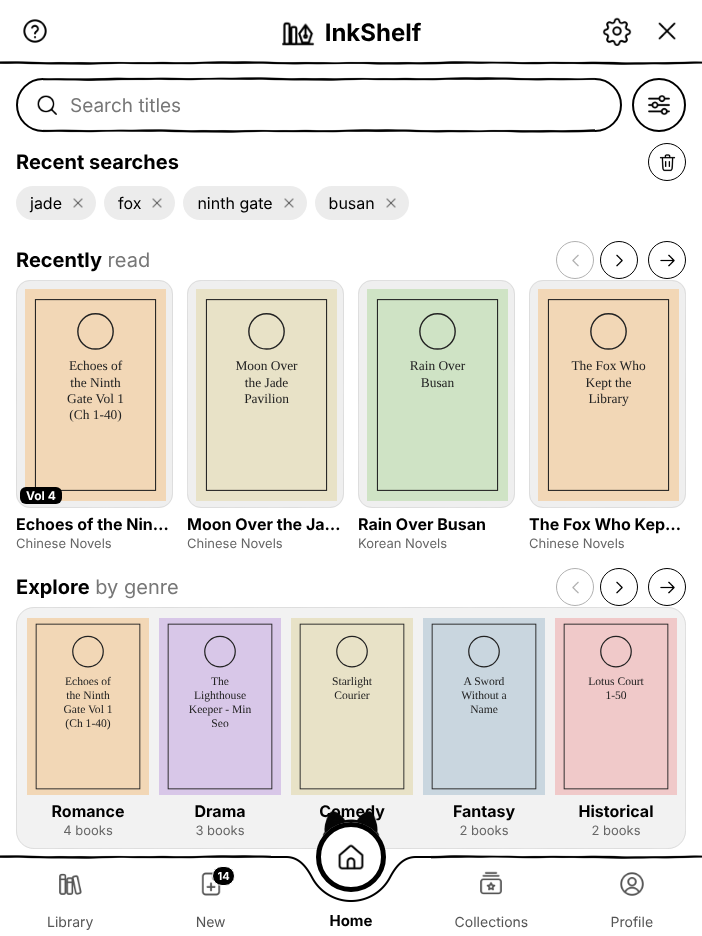
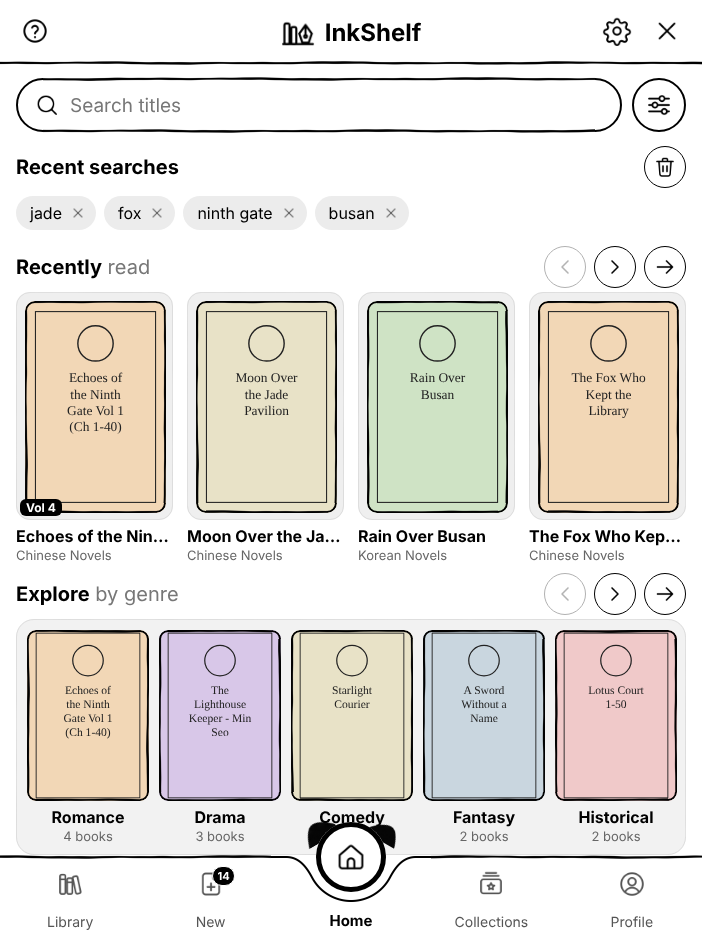
Ears on the button's sides, paw prints on notes, hand-drawn covers and post-its, even spacing for small round buttons
Claude-Session: https://claude.ai/code/session_01X56ddDHNWUKJn2BBuoFg9X

diff --git a/App.tsx b/App.tsx
@@ -41,6 +41,8 @@ const CAT_IMG = {
 // height / width of each picture
 const CAT_RATIO: {[k in keyof typeof CAT_IMG]: number} = {peek: 0.5349, ears: 0.4848, paw: 0.8213, loaf: 0.7054, sitting: 1.0231, sleepy: 0.8558, stretch: 0.9286};
 let CAT = false; // set from Settings on every render
+const CAT_EAR_L = require('./assets/cat/ear-left.png');
+const CAT_EAR_R = require('./assets/cat/ear-right.png');
 
 // ---------- the hand-drawn look (Settings › Look): every ink border becomes a slightly wobbly pen line ----------
 // The line pictures (tools/sketch/make.py) are cropped, never stretched, so the wobble looks the same on short and long edges.
@@ -183,6 +185,27 @@ const TextInput = React.forwardRef<RNTextInput, React.ComponentProps<typeof RNTe
 const CatImg = ({name, w, style}: {name: keyof typeof CAT_IMG; w: number; h?: number; style?: any}) => (
   <Image source={CAT_IMG[name]} style={[{width: w, height: Math.round(w * CAT_RATIO[name]), pointerEvents: 'none'}, style]} resizeMode="contain" />
 );
+/** the bottom bar's round button (70 wide, its top 36 above the bar) wears an ear on each shoulder, tilted with the circle */
+const EAR = {w: px(36), h: px(20)}; // ear-left/right.png are about 84 x 44
+const Ears = () => {
+  const a = 52 * Math.PI / 180, d = px(41); // the ear's base tucks under the button's rim // angle from the top, distance from the circle's middle
+  const cy = -px(36) + px(35);
+  return (
+    <>
+      {[-1, 1].map(sd => (
+        <Image key={sd} source={sd < 0 ? CAT_EAR_L : CAT_EAR_R} resizeMode="contain"
+          style={{position: 'absolute', width: EAR.w, height: EAR.h, top: cy - d * Math.cos(a) - EAR.h / 2, left: '50%', marginLeft: sd * d * Math.sin(a) - EAR.w / 2, transform: [{rotate: `${sd * 30}deg`}], pointerEvents: 'none'} as any} />
+      ))}
+    </>
+  );
+};
+/** two little paw prints walking into a sticky note's bottom-left corner */
+const PawTrail = () => (
+  <RNView pointerEvents="none" style={{position: 'absolute', left: px(8), bottom: px(6), width: px(44), height: px(34)}}>
+    <CatImg name="paw" w={px(16)} style={{position: 'absolute', left: 0, top: 0, transform: [{rotate: '-28deg'}]}} />
+    <CatImg name="paw" w={px(16)} style={{position: 'absolute', left: px(22), top: px(14), transform: [{rotate: '-18deg'}]}} />
+  </RNView>
+);
 // picture sizes (the Supernote screen is 300 pixels per inch: 600 px is about 51 mm)
 const SIZE_COVER = '2:3 tall, e.g. 600 × 900 px (about 51 × 76 mm on the screen)';
 const SIZE_COLL = '4:3 wide, e.g. 800 × 600 px (about 68 × 51 mm on the screen)';
@@ -286,13 +309,23 @@ function Cover({uri, w, h, title, isNew, badge}: {uri?: string | null; w: number
   const [bad, setBad] = useState(false);
   const img =
     !uri || bad ? (
-      <View style={[st.noCover, {width: w, height: h}]}>
+      <View style={[st.noCover, SKETCH && {borderWidth: 0}, {width: w, height: h}]}>
         {title ? <Text style={[st.noCoverText, {fontSize: Math.max(px(9), Math.round(w / 9))}]} numberOfLines={5}>{title}</Text> : null}
       </View>
     ) : (
       <Image source={{uri: /^[a-z]+:/i.test(uri) ? uri : 'file://' + uri}} style={{width: w, height: h}} resizeMode="cover" onError={() => setBad(true)} />
     );
   const tag = badge || (isNew ? 'NEW' : '');
+  if (SKETCH) {
+    // soft corners and a pen line around the picture
+    const r = Math.max(px(5), Math.round(Math.min(w, h) * 0.07));
+    return (
+      <View style={{width: w, height: h, borderRadius: r, overflow: 'hidden', borderWidth: w < px(70) ? 1.5 : 2, borderColor: BLACK}}>
+        <RNView style={{position: 'absolute', top: 0, left: 0, width: w, height: h}}>{img}</RNView>
+        {tag ? <View style={st.newBadge}><Text style={[st.newBadgeText, badge ? {fontSize: Math.max(px(9), Math.min(px(11), Math.round(w / 11))), letterSpacing: 0} : null]}>{tag}</Text></View> : null}
+      </View>
+    );
+  }
   if (!tag) return img;
   return (
     <View style={{width: w, height: h}}>
@@ -303,7 +336,7 @@ function Cover({uri, w, h, title, isNew, badge}: {uri?: string | null; w: number
 }
 
 function ViewIcon({kind, on, onPress}: {kind: 'list' | 'grid'; on: boolean; onPress: () => void}) {
-  return <IconBtn name={kind} label={kind === 'list' ? 'List view' : 'Grid view'} dark={on} onPress={onPress} size={px(44)} style={{marginLeft: px(8), borderRadius: px(10)}} />;
+  return <IconBtn name={kind} label={kind === 'list' ? 'List view' : 'Grid view'} dark={on} onPress={onPress} size={px(42)} style={{marginLeft: px(8), borderRadius: px(10)}} />;
 }
 
 function FilterRow({label, count, state, onPress}: {label: string; count: number; state: 0 | 1 | -1; onPress: () => void}) {
@@ -2516,10 +2549,10 @@ function InkShelfApp(): React.JSX.Element {
         </Pressable>
         {active && !showFilters ? <Pill small label="Clear  ✕" onPress={clearAll} /> : null}
         <View style={{flexDirection: 'row'}}>
-          <IconBtn name="plus" label="Add a book" onPress={() => setPaperOpen(true)} size={px(44)} style={{marginRight: px(8), borderRadius: px(10)}} />
+          <IconBtn name="plus" label="Add a book" onPress={() => setPaperOpen(true)} size={px(42)} style={{marginRight: px(8), borderRadius: px(10)}} />
           <ViewIcon kind="list" on={!grid && !settings.libFolders} onPress={() => { changeSettings({libraryGrid: false, libFolders: false}); setPage(Math.floor(((pg - 1) * per) / LIST_PER_PAGE) + 1); }} />
           <ViewIcon kind="grid" on={grid && !settings.libFolders} onPress={() => { changeSettings({libraryGrid: true, libFolders: false}); setPage(Math.floor(((pg - 1) * per) / GRID_PER_PAGE) + 1); }} />
-          <IconBtn name="folder" label="Folder view" dark={settings.libFolders} onPress={() => changeSettings({libFolders: !settings.libFolders})} size={px(44)} style={{marginLeft: px(8), borderRadius: px(10)}} />
+          <IconBtn name="folder" label="Folder view" dark={settings.libFolders} onPress={() => changeSettings({libFolders: !settings.libFolders})} size={px(42)} style={{marginLeft: px(8), borderRadius: px(10)}} />
         </View>
       </View>
       {settings.libFolders && lib ? (
@@ -3130,7 +3163,7 @@ function PostIt({notes, onPress, style}: {notes: Note[]; onPress: () => void; st
   const sz = px(52);
   return (
     <Pressable onPress={onPress} hitSlop={px(6)} accessibilityLabel={n ? `${n} notes` : 'Add a note'} style={style}>
-      <View style={[st.postit, {width: sz, height: sz, backgroundColor: n ? noteBg(notes[0].color) : '#fbf0a0'}]}>
+      <View style={[st.postit, SKETCH && {borderRadius: px(8), overflow: 'hidden', borderWidth: 1.5, borderColor: BLACK}, {width: sz, height: sz, backgroundColor: n ? noteBg(notes[0].color) : '#fbf0a0'}]}>
         <View style={st.postitFold} />
         {n ? (
           <>
@@ -3173,7 +3206,7 @@ function NotesBoard({title, notes, onChange, onClose}: {title: string; notes: No
   const rows = Math.max(2, Math.ceil(slots / cols));
   const nw = Math.floor(boardW / cols) - px(28);
   const nh = Math.floor(boardH / rows) - px(26);
-  const lines = Math.max(2, Math.floor((nh - px(60)) / px(25)));
+  const lines = Math.max(2, Math.floor((nh - px(60) - (CAT ? px(16) : 0)) / px(25)));
   return (
     <View style={[StyleSheet.absoluteFill, {backgroundColor: '#ffffff'}]}>
       <View style={st.header}>
@@ -3209,9 +3242,9 @@ function NotesBoard({title, notes, onChange, onClose}: {title: string; notes: No
                 <View key={c} style={st.boardSlot}>
                   <Pressable
                     onPress={() => (picking ? setPicked(sel ? picked.filter(x => x !== n.id) : [...picked, n.id]) : setEditing(n))}
-                    style={[st.sticky, {width: nw, height: nh, backgroundColor: noteBg(n.color), transform: [{rotate: `${tilt(n.id, i)}deg`}]}, sel && {borderWidth: 3.5, borderColor: BLACK}]}
+                    style={[st.sticky, SKETCH && {borderRadius: px(12)}, {width: nw, height: nh, backgroundColor: noteBg(n.color), transform: [{rotate: `${tilt(n.id, i)}deg`}]}, sel && {borderWidth: 3.5, borderColor: BLACK}]}
                     accessibilityLabel={picking ? `${sel ? 'Unselect' : 'Select'} note ${i + 1}` : `Note ${i + 1}: ${n.title || n.text.slice(0, 30)}`}>
-                    {CAT ? <CatImg name="paw" w={px(22)} h={px(22)} style={{position: 'absolute', top: px(2), left: '50%', marginLeft: -px(11)}} /> : <View style={st.pin} />}
+                    <View style={st.pin} />{CAT ? <PawTrail /> : null}
                     {n.title ? <Text style={st.stickyTitle} numberOfLines={1}>{n.title}</Text> : null}
                     {n.rating ? <View style={{marginBottom: px(4)}}><Stars value={n.rating} size={px(20)} /></View> : null}
                     <Text style={st.stickyText} numberOfLines={(n.title ? lines - 1 : lines) - (n.rating ? 1 : 0)}>{n.text}</Text>
@@ -3503,7 +3536,7 @@ function QuotesPage({index, cover, onOpen}: {index: Found[]; cover: (f: Found) =
   const boardH = H - px(64) - px(84) - px(64) - TASK_H - px(20);
   const nw = Math.floor(boardW / cols) - px(30);
   const nh = Math.floor(boardH / rows) - px(26);
-  const lines = Math.max(2, Math.floor((nh - px(96)) / px(25)));
+  const lines = Math.max(2, Math.floor((nh - px(96) - (CAT ? px(16) : 0)) / px(25)));
   return (
     <>
       <View style={[st.searchRow, {flexDirection: 'row', alignItems: 'center'}]}>
@@ -3526,7 +3559,7 @@ function QuotesPage({index, cover, onOpen}: {index: Found[]; cover: (f: Found) =
               {list.slice(p * per + r * cols, p * per + r * cols + cols).map((x, c) => (
                 <View key={x.f.lib.path + x.f.book.key + x.n.id} style={st.boardSlot}>
                   <Pressable onPress={() => onOpen(x.f)} style={[st.sticky, {width: nw, height: nh, backgroundColor: noteBg(x.n.color), transform: [{rotate: `${tilt(x.n.id, r * cols + c)}deg`}]}]} accessibilityLabel={`Note on ${x.title}: ${x.n.title || x.n.text.slice(0, 40)}`}>
-                    {CAT ? <CatImg name="paw" w={px(22)} h={px(22)} style={{position: 'absolute', top: px(2), left: '50%', marginLeft: -px(11)}} /> : <View style={st.pin} />}
+                    <View style={st.pin} />{CAT ? <PawTrail /> : null}
                     <View style={{flexDirection: 'row', alignItems: 'center', marginBottom: px(6)}}>
                       <Cover uri={cover(x.f)} w={px(30)} h={px(45)} title={x.title} />
                       <View style={{flex: 1, marginLeft: px(8)}}>
@@ -3659,7 +3692,7 @@ function Taskbar({tab, onTab, newCount}: {tab: Tab; onTab: (t: Tab) => void; new
                 {/* the open tab sits in a dip cut into the bar, like a call-to-action button */}
                 {/* one smooth curve: flat bar, soft shoulder, round dip around the button, soft shoulder */}
                 <Image source={DIP_IMG} style={st.dip} resizeMode="stretch" />
-                {CAT ? <CatImg name="ears" w={px(58)} style={{position: 'absolute', top: -px(36) - px(12), alignSelf: 'center'}} /> : null}
+                {CAT ? <Ears /> : null}
                 <View style={st.taskCta}>
                   <Icon name={icon} size={px(32)} />
                   {badge}
@@ -3812,9 +3845,9 @@ function SettingsSheet({settings, change, onClose, onLibraries, onClearSearches,
         {settings.profile.goal ? (
           <View style={{flexDirection: 'row', alignItems: 'center', marginTop: px(4)}}>
             <Text style={[st.small, {color: BLACK, marginRight: px(10)}]}>{`Goal: books to finish in ${new Date().getFullYear()}`}</Text>
-            <IconBtn name="back" label="Fewer" disabled={settings.goal <= 1} onPress={() => change({goal: Math.max(1, (settings.goal || 12) - 1)})} size={px(40)} />
+            <IconBtn name="back" label="Fewer" disabled={settings.goal <= 1} onPress={() => change({goal: Math.max(1, (settings.goal || 12) - 1)})} size={px(42)} />
             <Text style={[st.rowTitle, {width: px(54), textAlign: 'center'}]}>{settings.goal || 12}</Text>
-            <IconBtn name="forward" label="More" onPress={() => change({goal: (settings.goal || 12) + 1})} size={px(40)} />
+            <IconBtn name="forward" label="More" onPress={() => change({goal: (settings.goal || 12) + 1})} size={px(42)} />
           </View>
         ) : null}
         <Text style={[st.section, {marginTop: px(12)}]}>On book pages</Text>
@@ -4144,7 +4177,7 @@ function CollectionEditor({start, values, count, onSave, onCancel, onDelete, onP
         <Text style={[st.ruleText, !r.value && {color: '#888888'}]} numberOfLines={1}>{r.value || 'choose…'}</Text>
         <Icon name={open === 'value' ? 'up' : 'down'} size={px(18)} />
       </Pressable>
-      <IconBtn name="close" label="Remove rule" onPress={() => { setPick(null); setC({...c, rules: c.rules.filter((_, j) => j !== i)}); }} size={px(40)} style={{marginLeft: px(6)}} />
+      <IconBtn name="close" label="Remove rule" onPress={() => { setPick(null); setC({...c, rules: c.rules.filter((_, j) => j !== i)}); }} size={px(42)} style={{marginLeft: px(6)}} />
     </View>
   );
   return (
@@ -4301,7 +4334,7 @@ function HelpPage({q, setQ, onOpen}: {q: string; setQ: (q: string) => void; onOp
         <View style={st.helpSearch}>
           <Icon name="search" size={px(26)} />
           <TextInput style={st.helpInput} value={q} onChangeText={t => { setQ(t); setPg(0); }} placeholder="Search the guides, e.g. cover, backup, series" />
-          {q ? <IconBtn bare name="close" label="Clear search" onPress={() => setQ('')} size={px(40)} /> : null}
+          {q ? <IconBtn bare name="close" label="Clear search" onPress={() => setQ('')} size={px(42)} /> : null}
         </View>
       </View>
       <View style={{flex: 1, paddingHorizontal: px(16)}}>
@@ -4851,7 +4884,7 @@ function Collection({items, grid, top, paging, empty}: {items: CItem[]; grid: bo
           </View>
         ) : null}
         {x.action ? (
-          <IconBtn name={x.action.icon} label={x.action.label} dark={x.action.dark} onPress={x.action.onPress} size={px(40)} style={{position: 'absolute', right: px(4), bottom: px(4)}} />
+          <IconBtn name={x.action.icon} label={x.action.label} dark={x.action.dark} onPress={x.action.onPress} size={px(42)} style={{position: 'absolute', right: px(4), bottom: px(4)}} />
         ) : null}
       </View>
       <Text style={[st.cardTitle, {alignSelf: 'stretch'}]} numberOfLines={1}>{x.title}</Text>
@@ -4961,7 +4994,7 @@ function NewList({items, libs, ready, paging, grid, setGrid, cover, wantCovers, 
     <>
       {wait}
       <Chips options={opts} value={which} onChange={setWhich} />
-      <Toolbar text={`${shown.length} book${shown.length === 1 ? '' : 's'}  ·  newest first`} grid={grid} setGrid={setGrid} extra={justAdded ? <IconBtn name="check" label="Mark all as seen" onPress={onAllSeen} size={px(44)} style={{borderRadius: px(10)}} /> : null} />
+      <Toolbar text={`${shown.length} book${shown.length === 1 ? '' : 's'}  ·  newest first`} grid={grid} setGrid={setGrid} extra={justAdded ? <IconBtn name="check" label="Mark all as seen" onPress={onAllSeen} size={px(42)} style={{borderRadius: px(10)}} /> : null} />
       <Collection
         key={which + grid}
         grid={grid}
@@ -5049,7 +5082,7 @@ function Home(props: {
             onSubmitEditing={() => onSearched(q)}
           />
           {q ? (
-            <IconBtn bare name="close" label="Clear search" onPress={() => setQ('')} size={px(40)} />
+            <IconBtn bare name="close" label="Clear search" onPress={() => setQ('')} size={px(42)} />
           ) : null}
         </View>
         <Pressable onPress={() => setScopeOpen(!scopeOpen)} style={[st.filterBtn, (scopeOpen || scope !== 'all') && st.btnDark]} accessibilityLabel="Search filters">
@@ -5110,11 +5143,11 @@ function Home(props: {
       <View style={{flexDirection: 'row', alignItems: 'center'}}>
         {!scroll && pages > 1 ? (
           <>
-            <IconBtn name="back" label="Previous" size={px(38)} disabled={page <= 0} onPress={() => setPage(page - 1)} style={{marginLeft: px(6)}} />
-            <IconBtn name="forward" label="Next" size={px(38)} disabled={page >= pages - 1} onPress={() => setPage(page + 1)} style={{marginLeft: px(6)}} />
+            <IconBtn name="back" label="Previous" size={px(42)} disabled={page <= 0} onPress={() => setPage(page - 1)} style={{marginLeft: px(8)}} />
+            <IconBtn name="forward" label="Next" size={px(42)} disabled={page >= pages - 1} onPress={() => setPage(page + 1)} style={{marginLeft: px(8)}} />
           </>
         ) : null}
-        <IconBtn name="arrow-right" label="View all" size={px(38)} onPress={() => onViewAll(what)} style={{marginLeft: px(10)}} />
+        <IconBtn name="arrow-right" label="View all" size={px(42)} onPress={() => onViewAll(what)} style={{marginLeft: px(8)}} />
       </View>
     </View>
   );
@@ -5151,7 +5184,7 @@ function Home(props: {
         <View style={{paddingHorizontal: px(16)}}>
           <View style={st.secHead}>
             <Text style={st.secTitle}>Recent searches</Text>
-            <IconBtn name="trash" label="Clear all searches" size={px(38)} onPress={() => onForgetSearch('')} />
+            <IconBtn name="trash" label="Clear all searches" size={px(42)} onPress={() => onForgetSearch('')} />
           </View>
           <View style={[st.pillWrap, {maxHeight: px(84), overflow: 'hidden'}]}>
             {searches.map(t => (
@@ -5170,7 +5203,7 @@ function Home(props: {
 
       {libs.length ? (
         <>
-          <View style={{paddingHorizontal: px(16), marginTop: px(10)}}>{head('Recently', 'read', rpg, rPages, setRp, 'recent')}</View>
+          <View style={{paddingHorizontal: px(16), marginTop: px(2)}}>{head('Recently', 'read', rpg, rPages, setRp, 'recent')}</View>
           {recent.length ? (
             row(
               rShown.map((r, i) => (
@@ -5188,7 +5221,7 @@ function Home(props: {
             <Text style={[st.small, {paddingHorizontal: px(16)}]}>Books you open will show up here.</Text>
           )}
 
-          <View style={{paddingHorizontal: px(16), marginTop: px(16)}}>{head('Explore', 'by genre', gpg, gPages, setGp, 'genres')}</View>
+          <View style={{paddingHorizontal: px(16), marginTop: px(6)}}>{head('Explore', 'by genre', gpg, gPages, setGp, 'genres')}</View>
           {genres.length ? (
             <View style={[st.genrePanel, {marginHorizontal: px(16)}]}>
               {(scroll ? [<ScrollView key="s" horizontal showsHorizontalScrollIndicator={false}><View style={{flexDirection: 'row'}}>{gTiles()}</View></ScrollView>] : [<View key="r" style={{flexDirection: 'row'}}>{gTiles()}</View>])}
@@ -5203,7 +5236,7 @@ function Home(props: {
   function gTiles() {
     return gShown.map((g, i) => (
       <Pressable key={g.name} onPress={() => onGenre(g.name)} style={{width: gw, marginLeft: i ? px(10) : 0, alignItems: 'center'}}>
-        <Cover uri={g.f ? cover(g.f) : null} w={gw} h={Math.round(gw * 1.45)} title={g.name} />
+        <Cover uri={g.f ? cover(g.f) : null} w={gw} h={Math.round(gw * 1.4)} title={g.name} />
         <Text style={[st.cardTitle, {textAlign: 'center'}]} numberOfLines={1}>{g.name}</Text>
         <Text style={[st.cardSub, {textAlign: 'center'}]}>{`${g.count} book${g.count === 1 ? '' : 's'}`}</Text>
       </Pressable>
@@ -5806,7 +5839,7 @@ const st = StyleSheet.create({
   cardTitle: {fontSize: px(16), fontWeight: 'bold', color: BLACK, marginTop: px(6)},
   cardSub: {fontSize: px(13), color: '#666666', marginTop: px(1)},
   filterBtn: {width: px(54), height: px(54), borderRadius: px(27), borderWidth: 2, borderColor: BLACK, alignItems: 'center', justifyContent: 'center', marginLeft: px(10)},
-  secHead: {flexDirection: 'row', alignItems: 'center', justifyContent: 'space-between', height: px(40)},
+  secHead: {flexDirection: 'row', alignItems: 'center', justifyContent: 'space-between', height: px(50)}, // room above and below the round buttons
   secTitle: {fontSize: px(20), fontWeight: 'bold', color: BLACK},
   secSub: {fontWeight: 'normal', color: '#777777'},
   viewAll: {fontSize: px(16), color: '#444444', textDecorationLine: 'underline', marginLeft: px(12)},
